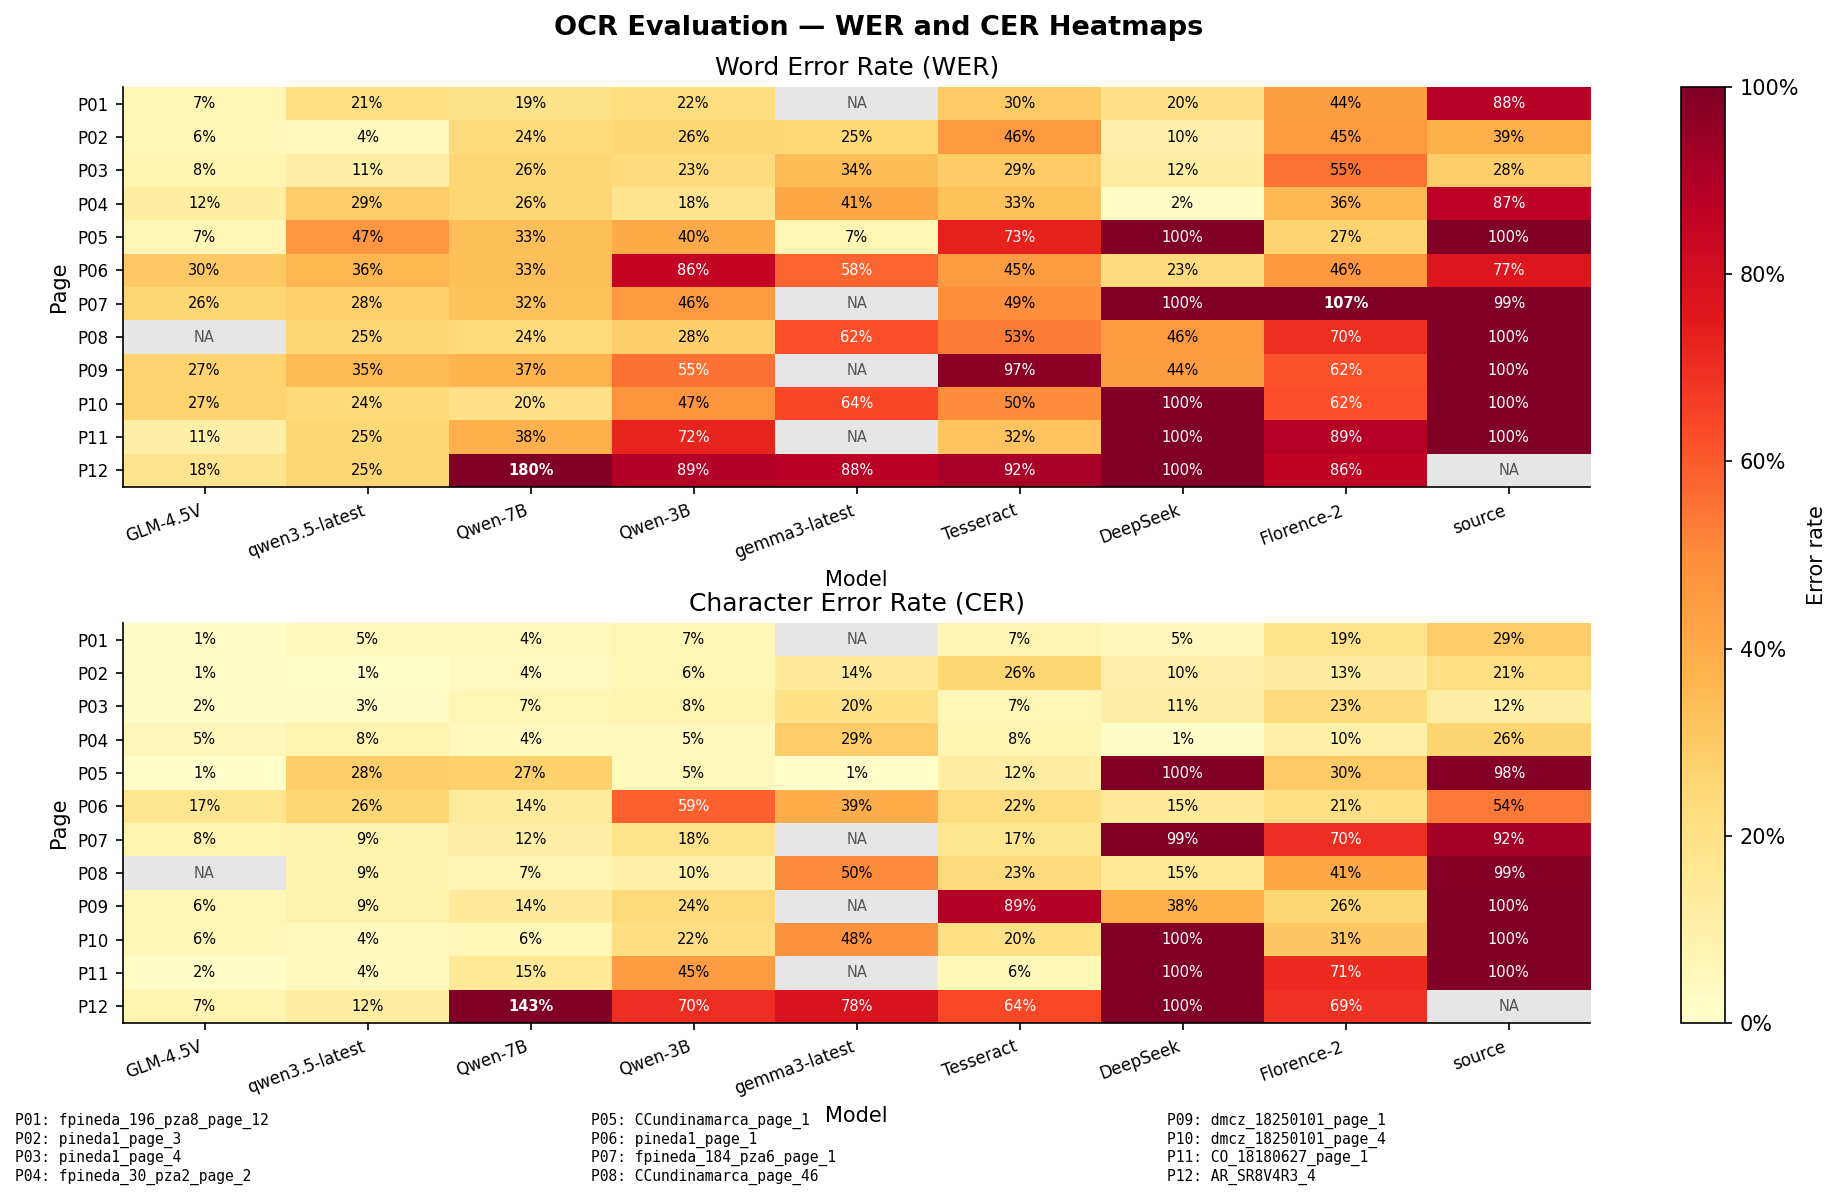
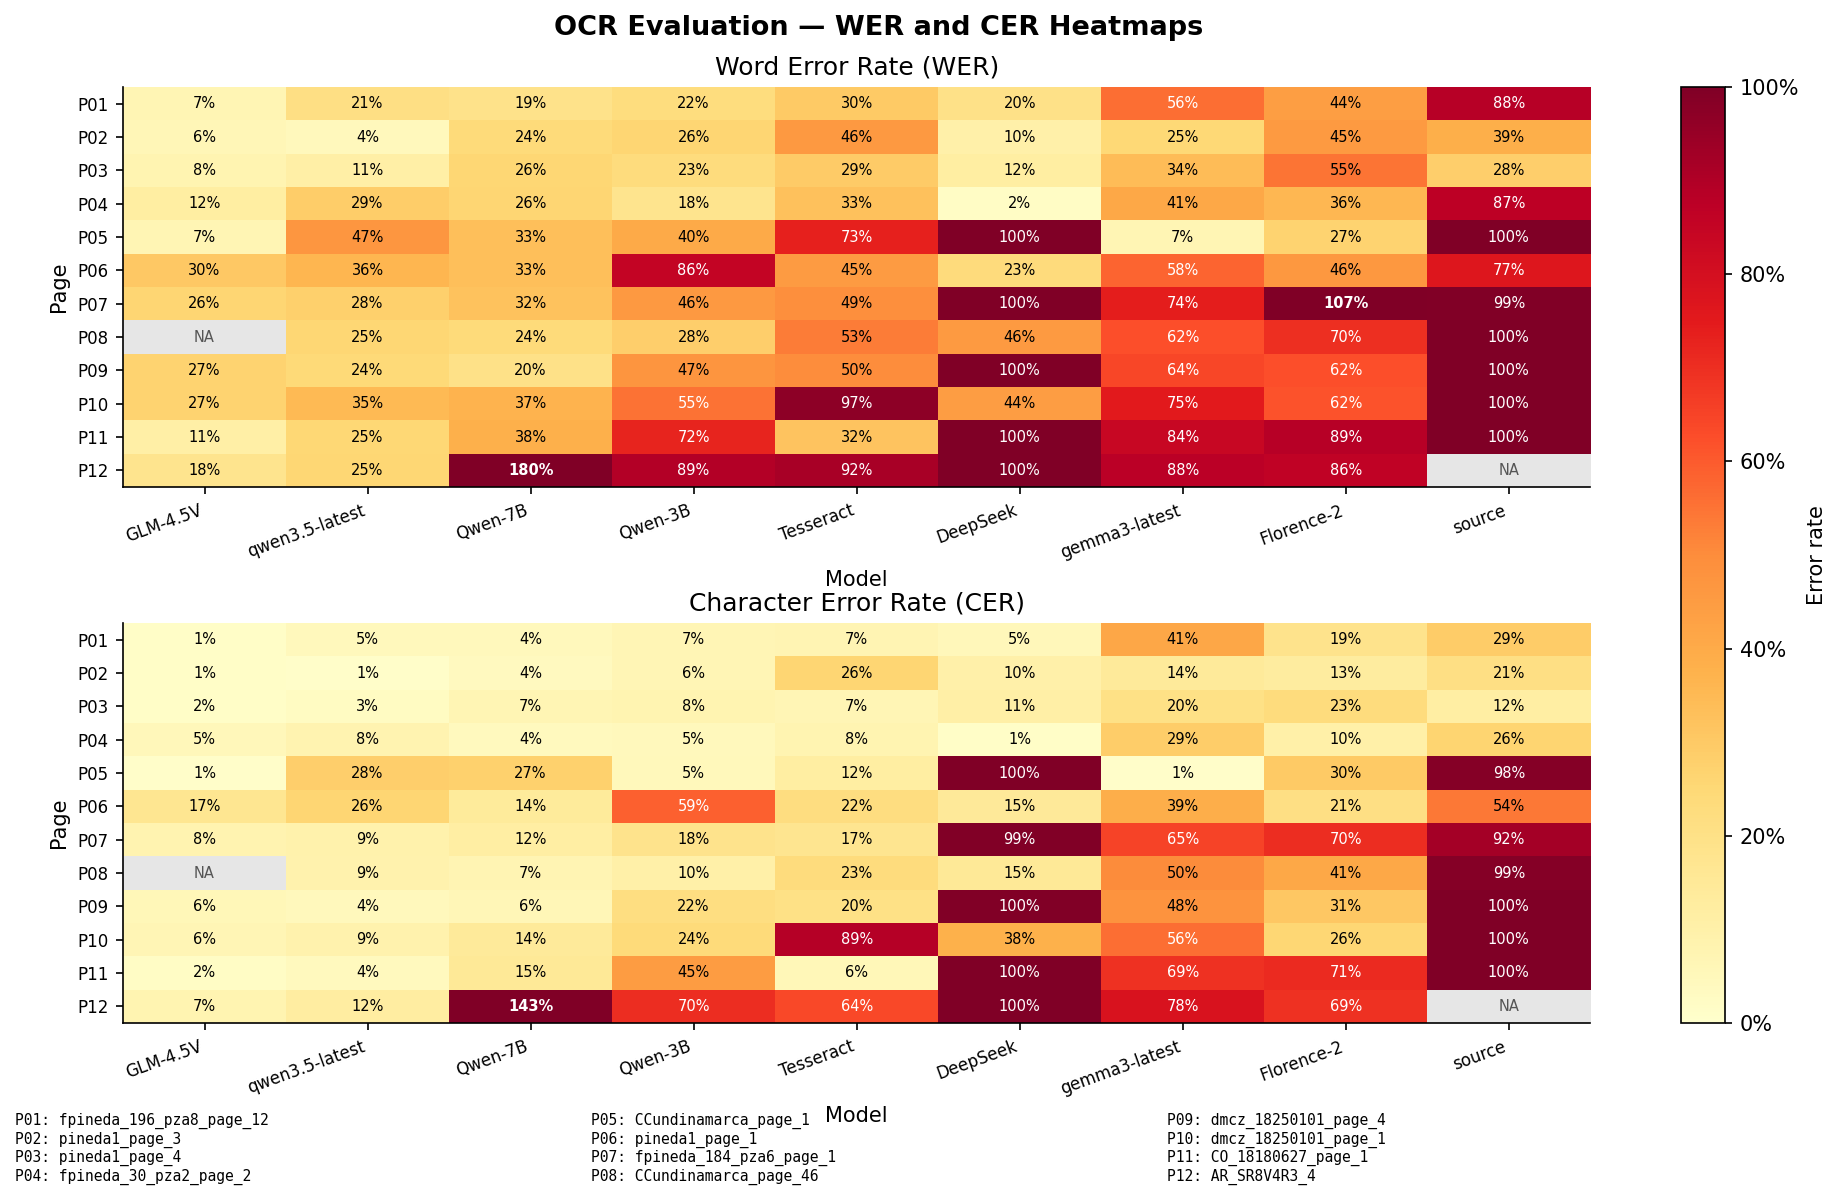
Add new evaluation JSON files and transcriptions for historical documents; update results images

diff --git a/transcriptions/gemma3-latest/CO_18180627_page_1.md b/transcriptions/gemma3-latest/CO_18180627_page_1.md
@@ -1,0 +1,1 @@
+LA DIVISION del General Paz se dirigió a la Villa del Pao, después de la retirada del enemigo a la Villa de Cura por la derrota, que sufrió en Ortiz. Sus Excéntricos, de manera curiosa reunión el Brigadier Real, que ofrecía esta ruta para conservar los recursos, y nombrada Caballería. Al aproximarse nuestra reserva, el General Paz marchó sobre San Carlos, y la ocupó, después de haber dado cumplimiento a la instrucción. El 15 de Abril, el General Paz marchó a los Pueblos de Tas andos y espero que hubiese con buen éxito en los Pueblos de Tas andos, y espero que hubiese con buen éxito en los Pueblos de Tas andos, y espero que hubiese con buen éxito en los Pueblos de Tas andos y habiendo sido la oportunidad de la ocasión, la ordenó retirar. El 20 de Abril, el General Latorre marchó a la Villa de Cura por la derrota, que sufrió en Ortiz. Sus Excéntricos, de manera curiosa reunión el Brigadier Real, que ofrecía esta ruta para conservar los recursos, y nombrada Caballería. Al aproximarse nuestra reserva, el General Paz marchó sobre San Carlos, y la ocupó, después de haber dado cumplimiento a la instrucción. El 13 de Abril, la division del General Torres se reunió en San José de Tasandos, y hubo con suceso en los Pueblos de Tas andos, y espero que hubiese con buen éxito en los Pueblos de Tas andos, y espero que hubiese con buen éxito en los Pueblos de Tas andos, y espero que hubiese con buen éxito en los Pueblos de Tas andos y habiendo sido la oportunidad de la ocasión, la ordenó retirar. El 20 de Abril, el General Latorre marchó a la Villa de Cura por la derrota, que sufrió en Ortiz. Sus Excéntricos, de manera curiosa reunión el Brigadier Real, que ofrecía esta ruta para conservar los recursos, y nombrada Caballería. Al aproximarse nuestra reserva, el General Paz marchó sobre San Carlos, y la ocupó, después de haber dado cumplimiento a la instrucción. Todos los Grandes de los Reyes de la Unión, de los Hombres, y en ocho, combate, que daba los sucesos ya terminada, que había sido la ocasión, la ordenó retirar. El 27 de Junio, 1818, se hizo para la morosidad de nuestra reserva, que no llenó su deber; á pesar de los esfuerzos de los Gües, el campo quedó cubierto de cadarches, de multitud de armamento, municiones, equipajes, comida y gran cantidad de prisioneros. La Brigadier Correa, Jefe del Estado Mayor General, y el Coronel Gonzales Villa, comandante de Castilla, han murmurado entre otros Oficiales de graduación. También se dice del General Latorre, aunque no se sabe positiva. Todos los Grandes de los Reyes de la Unión, de los Hombres, y en ocho, combate, que daba los sucesos ya terminada, que había sido la ocasión, la ordenó retirar.

diff --git a/transcriptions/gemma3-latest/fpineda_196_pza8_page_12.md b/transcriptions/gemma3-latest/fpineda_196_pza8_page_12.md
@@ -1,0 +1,1 @@
+Popayan 17 de Julio de 1785. A los 14 años de edad, las 2 de Mayo, fallecio en el Cristismo Señor Don Geronimo de Obregon, y Mena, Obispo de esta Diocesis, donde nació la 22 de Marzo de 1780, la prudencia, y suavidad con que por ran dilatado tiempo governo los obispados, le hicieron dueño de los corazones de todos sus subditos; no podian esperarse menos provechosos efectos de su profunda doctrina, y consumada experiencia, en la practica de estas virtudes sobre el ministerio; pues no siendo mas rentas que las mas quantiosas, se aseguran, pasaban de ocho mil pesos las limosas que anualmente repartian con vida. A este efecto, pasadas tres horas de su fallecimiento, se abrió el Caderver, y separadas las partes referidas se em- balsamaron, y colocó con la debida decencia en su mismo Palacio, donde se mantuvo expuesto al público tres días, durante esta tiempo, celebrarón misa por su alma no pocos sacerdotes seculares, y Regu- larios, concurringiendo todas las Comunidades a cantar cada una su Vigilia con la mayor solemnidad, y con la misma se condujo como para la iglesia particular de distinction el día 16 las 10 de la mañana, a la iglesia particular, donde se repitieron los sufragios, y Exéquias Funerales que se concluyeron a la una de la tarde. El Vicendario de Popayan quien su yema la declaracion del verdadero Pedro, mantendria su memoria, con un agradecimiento por mas mucho años. Que en esta Dios se sinto bastante la violencia del cerremero del 12, dos de Mayo, que hay que tener cuidado con su conocimiento.

diff --git a/transcriptions/gemma3-latest/dmcz_18250101_page_1.md b/transcriptions/gemma3-latest/dmcz_18250101_page_1.md
@@ -1,0 +1,29 @@
+DIARIO MERCANTIL
+DE CADIZ
+DEL SABADO 1.º DE ENERO DE 1825.
+LA CIRCUNCISION DEL SEÑOR.- Fiesta.
+El Jubileo de las 40 horas está en la Santa Iglesia Catedral.
+AFECCIONES METEOROLOGICAS DE NOT.
+A las 9 de la mañana. 30, 3, 70.
+A las 12 del día. 30, 3, 58.
+A las 6 de la tarde. 30, 3, 58.
+Barómetro. Termómetro. Atmósfera.
+Claro.
+Idem.
+Idem.
+
+MARES EN BOTA BAHIA.
+1.ª Bajamar á las 4 h. 55’. maz. 2.ª Bajamar á las 6 h. 46’ tardía.
+1.ª Altamar á las 11 h. 6’. maz. 2.ª Bajamar á las 11 h. 46’ tardía.
+El Esmo. Sr. Secretario de Estado con fecha 24 de
+Guerra en Real orden de Esmo. Sr. Secretario de Estado y que
+Esmo. Sr. Secretario de Estado confirma el orden de los
+del establecimiento del Portilla, con que las propias
+manucritos manuscritas to aun por aquellas autoridades quitamos les
+diterentes, de que hay que hacer de voluntarios Realistas, que
+con algunos doce autorizados por sus superintendentos,
+viajan con los adjuntos to confirmar, que con documento legitimó.
+Presente lo que con los adjuntos to confirmando la de
+manda sobre de la de la de la
+manda sobre de la de la
+manda sobre de la de la.

diff --git a/transcriptions/gemma3-latest/fpineda_184_pza6_page_1.md b/transcriptions/gemma3-latest/fpineda_184_pza6_page_1.md
@@ -1,0 +1,9 @@
+DE SANTA FE DE BOTÁ
+Agosto 27 de 1810.
+
+Diſtrínd las Fueces, quemar brevi creverit. Livis.
+Anemzan, y el camino para evitarlos, fixar la opinion, reunir las voluntades y diſipar los nublados que en todo momento forman la secction y la conſumida Solo elles pueden inspirar la union, calmar los espíritus, y fomentar las tempestadés.
+
+Nosotros, que el día 20 de Julio de 1810 conquíſimos nuestras inſepindencia, nosotros, que hemos visto degenerar en furor al celo más ardiente, y generoso, nosotros que hemos visto momentos de verdadera manzia, que aun no os hemos organizado, que conſumimos las provisiones, y la cereñidad en medio de las flotas de una larga tempestad politica, que damos de pensar de las provincias, y los privilegios deean saber las resoluciones de la Capitol. Todo el Reyno ha fixado ya un rumbo de a las despistas del nuevo y de un tiempo para construir la nueva republica. Los nosotros debemos que esta esperanza aun viva, y que nos tengamos en cuenta en nuestro Principio de los deberes que tenemos.
+
+Del XX al XXXIII
